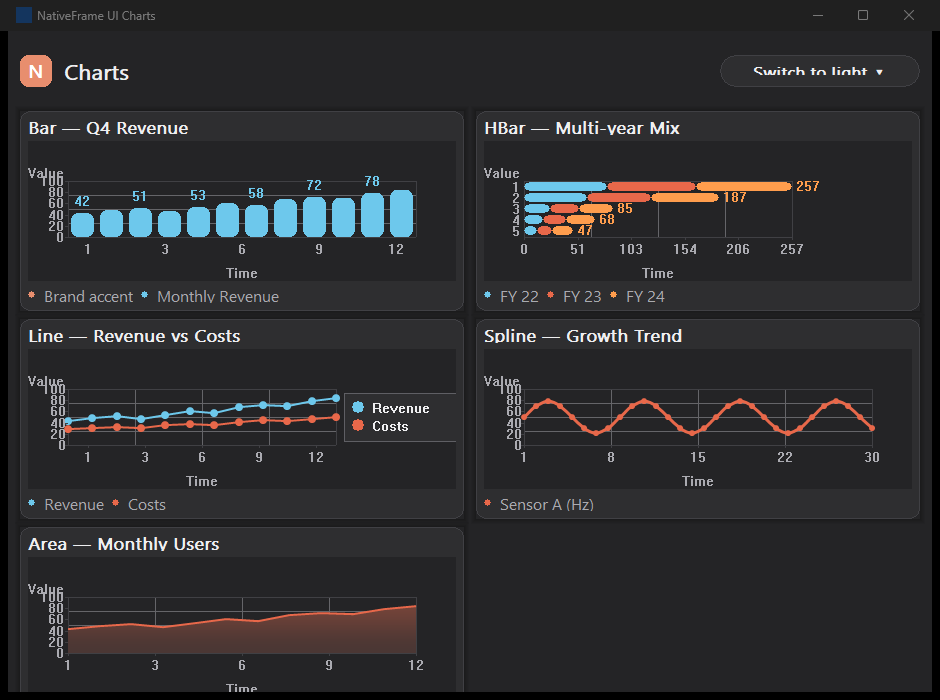
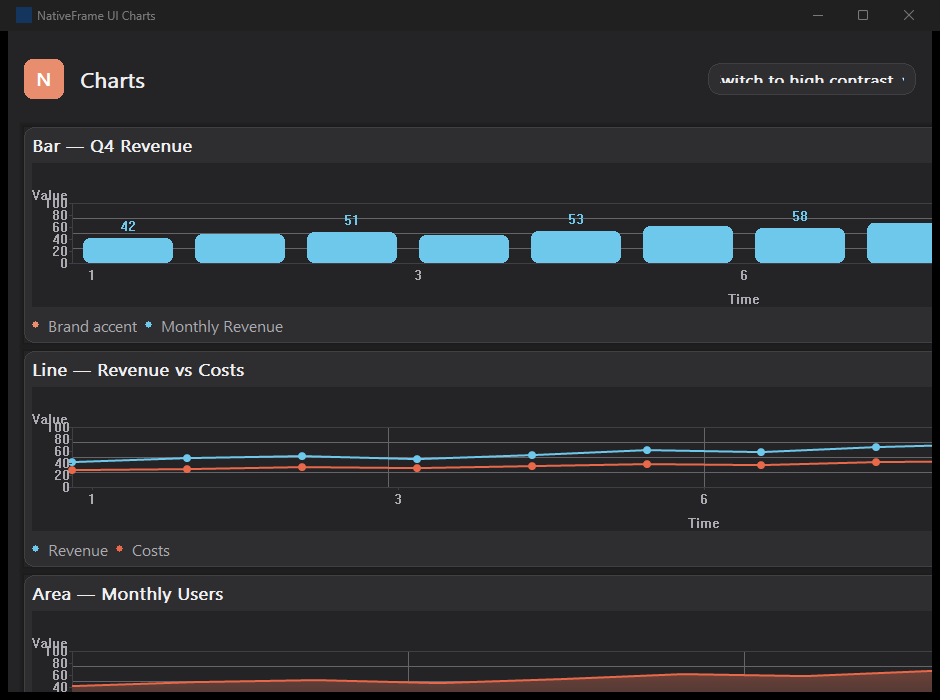
feat(cpB8): Charts polish — three-theme cycle + design-token layout
- Added high-contrast palette support to the Charts demo:
  - new hc_palette_ member in ChartsWindow
  - three-way apply_theme() switch (light / dark / high_contrast)
  - cyclic theme toggle: light → dark → high_contrast → light
  - toggle label updates to "Switch to dark / high contrast / light"
- Migrated all layout/paint magic numbers to nfui::design tokens
  (spacing_sm/md/lg/xs, control_height_sm/md/lg, radius_md/lg).

Validation: build clean, 7/7 ctest, 42/42 audit PNGs, gate avg 41257 bytes,
architecture + boundary gates green.

diff --git a/samples/NativeFrameUICharts/NativeFrameUICharts.cpp b/samples/NativeFrameUICharts/NativeFrameUICharts.cpp
@@ -6,6 +6,7 @@
 #include <nfui/Paint.hpp>
 #include <nfui/ResourceContext.hpp>
 #include <nfui/Theme.hpp>
+#include <nfui/design_tokens.hpp>
 
 #include "NativeFrameUIResource.h"
 
@@ -18,6 +19,8 @@
 #include <windowsx.h>
 
 namespace {
+
+namespace tok = nfui::design;
 
 // CP30: chart-series name strings. The ChartSeries::name field is borrowed
 // (std::wstring_view); the underlying storage MUST outlive the chart view
@@ -136,6 +139,7 @@ public:
           resources_(instance),
           light_palette_(nfui::theme_palette(nfui::ThemeMode::light)),
           dark_palette_(nfui::theme_palette(nfui::ThemeMode::dark)),
+          hc_palette_(nfui::theme_palette(nfui::ThemeMode::high_contrast)),
           palette_(&light_palette_) {
     }
 
@@ -299,9 +303,19 @@ private:
     // Rebuild series palettes from the live theme + push the palette pointer
     // through every chart view. Called on create + on theme toggle.
     void apply_theme() noexcept {
-        palette_ = (theme_mode_ == nfui::ThemeMode::dark)
-                       ? static_cast<const nfui::ThemePalette*>(&dark_palette_)
-                       : static_cast<const nfui::ThemePalette*>(&light_palette_);
+        // CP-B8: support all three themes. HC uses the framework's high-contrast
+        // palette so axis/tick labels and legend dots read with WCAG contrast.
+        switch (theme_mode_) {
+        case nfui::ThemeMode::dark:
+            palette_ = &dark_palette_;
+            break;
+        case nfui::ThemeMode::high_contrast:
+            palette_ = &hc_palette_;
+            break;
+        default:
+            palette_ = &light_palette_;
+            break;
+        }
         bar_.set_palette(palette_);
         hbar_.set_palette(palette_);
         line_.set_palette(palette_);
@@ -471,21 +485,21 @@ private:
         // grid (3 rows) instead of a single vertical stack — the previous
         // chart_h 220 px per card × 5 = 1100 px in a 700-tall window left
         // ~70% of the content below the fold.
-        const int outer = dpi.logical_to_pixels(12);
-        const int gap = dpi.logical_to_pixels(12);
-        const int header_h = dpi.logical_to_pixels(56);
+        const int outer = dpi.logical_to_pixels(tok::spacing_md);
+        const int gap = dpi.logical_to_pixels(tok::spacing_md);
+        const int header_h = dpi.logical_to_pixels(tok::control_height_lg + tok::spacing_lg);
 
         // Title row sits inside the header band so it shares the brand line
         // with the theme toggle. The toggle rect is reused by hover + click
         // dispatchers so the click test always sees the live coordinates.
         const int header_band_top = client.top + outer;
         const int header_band_h = header_h;
-        const int logo_size = dpi.logical_to_pixels(32);
+        const int logo_size = dpi.logical_to_pixels(tok::control_height_lg);
         brand_rect_ = make_rect(client.left + outer,
                                 header_band_top + (header_band_h - logo_size) / 2,
                                 logo_size, logo_size);
-        const int toggle_w = dpi.logical_to_pixels(200);
-        const int toggle_h = dpi.logical_to_pixels(32);
+        const int toggle_w = dpi.logical_to_pixels(tok::spacing_xl * 6 + tok::spacing_md);  // 200 logical px
+        const int toggle_h = dpi.logical_to_pixels(tok::control_height_md);
         theme_toggle_rect_ = make_rect(client.right - outer - toggle_w,
                                        header_band_top + (header_band_h - toggle_h) / 2,
                                        toggle_w, toggle_h);
@@ -498,10 +512,10 @@ private:
         // Per-card reserved vertical space: title strip + legend strip +
         // inner padding. The chart HWND sits between them inside the card
         // chrome (rounded rect + border + drop shadow painted by the parent).
-        const int card_padding = dpi.logical_to_pixels(8);
-        const int card_title_h = dpi.logical_to_pixels(16);
-        const int card_legend_h = dpi.logical_to_pixels(16);
-        const int card_gap = dpi.logical_to_pixels(6);
+        const int card_padding = dpi.logical_to_pixels(tok::spacing_sm);
+        const int card_title_h = dpi.logical_to_pixels(tok::control_height_sm - tok::spacing_xs);
+        const int card_legend_h = dpi.logical_to_pixels(tok::control_height_sm - tok::spacing_xs);
+        const int card_gap = dpi.logical_to_pixels(tok::spacing_xs + tok::spacing_xs);
 
         // CP37: 2-column grid (3 rows) instead of a single vertical stack.
         // 5 charts split across 2 columns: cards 0/2/4 in column 1 and
@@ -510,18 +524,18 @@ private:
         // inside the 700-tall compact viewport with breathing room, while
         // keeping enough vertical room for the bar / hbar geometry to
         // render with proper height.
-        const int grid_gap = dpi.logical_to_pixels(12);
+        const int grid_gap = dpi.logical_to_pixels(tok::spacing_md);
         const int card_w = std::max((area_right - area_left - grid_gap) / 2,
-                                    dpi.logical_to_pixels(360));
+                                    dpi.logical_to_pixels(tok::spacing_xl * 45));  // 360 logical px
         const int card_inner_w = std::max(card_w - card_padding * 2,
-                                          dpi.logical_to_pixels(340));
-        const int chart_h = dpi.logical_to_pixels(140);
+                                          dpi.logical_to_pixels(tok::spacing_xl * 42));  // 336 logical px
+        const int chart_h = dpi.logical_to_pixels(tok::control_height_lg * 3 + tok::spacing_lg);  // 140 logical px
         const int card_h = card_padding + card_title_h + card_gap
                             + chart_h + card_gap + card_legend_h + card_padding;
 
         const int card_count = 5;
         const int rows = (card_count + 1) / 2;  // 5 → 3 rows
-        const int row_gap = dpi.logical_to_pixels(8);
+        const int row_gap = dpi.logical_to_pixels(tok::spacing_sm);
         const int col_gap = grid_gap;
         const int stack_top = area_top;
 
@@ -619,7 +633,7 @@ private:
     void paint_brand_square(HDC target) noexcept {
         const nfui::ThemePalette& p = *palette_;
         const nfui::DpiScale dpi(GetDpiForWindow(hwnd()));
-        const int radius = dpi.logical_to_pixels(8);
+        const int radius = dpi.logical_to_pixels(tok::radius_md);
         nfui::fill_rounded_rect(target, brand_rect_, radius, p.accent, p.accent);
         // White "N" mark, semibold at font_pt::md (16pt). The accent_text
         // colour is reserved for text drawn ON accent (per palette docs),
@@ -637,8 +651,8 @@ private:
     void paint_page_title(HDC target) noexcept {
         const nfui::ThemePalette& p = *palette_;
         const nfui::DpiScale dpi(GetDpiForWindow(hwnd()));
-        const int gap = dpi.logical_to_pixels(12);
-        const int title_h = dpi.logical_to_pixels(28);
+        const int gap = dpi.logical_to_pixels(tok::spacing_md);
+        const int title_h = dpi.logical_to_pixels(tok::font_hero + tok::spacing_sm);
         RECT title = brand_rect_;
         title.left = brand_rect_.right + gap;
         title.top = brand_rect_.top + (rect_height(brand_rect_) - title_h) / 2;
@@ -655,7 +669,7 @@ private:
     void paint_theme_toggle(HDC target) noexcept {
         const nfui::ThemePalette& p = *palette_;
         const nfui::DpiScale dpi(GetDpiForWindow(hwnd()));
-        const int radius = dpi.logical_to_pixels(16);
+        const int radius = dpi.logical_to_pixels(tok::radius_lg);
 
         // Hover face: lift the surface toward the accent so the click
         // affordance reads. When the user is already on dark mode the
@@ -667,12 +681,15 @@ private:
             : p.surface;
         nfui::fill_rounded_rect(target, theme_toggle_rect_, radius, face, p.border);
 
-        // Label shows the ACTION ("Switch to dark") plus a chevron. The
-        // brief says "shows current mode + arrow" — we go with action+arrow
-        // because it reads as the same affordance ShowcaseView uses.
-        const std::wstring_view label = (theme_mode_ == nfui::ThemeMode::dark)
-            ? L"Switch to light ▾"
-            : L"Switch to dark ▾";
+        // CP-B8: label shows the ACTION for the NEXT mode in a 3-way cycle
+        // (light → dark → high_contrast → light). The chevron hints at a
+        // dropdown-like affordance even though this is a cyclic toggle.
+        const std::wstring_view label =
+            (theme_mode_ == nfui::ThemeMode::dark)
+                ? L"Switch to high contrast ▾"
+            : (theme_mode_ == nfui::ThemeMode::high_contrast)
+                ? L"Switch to light ▾"
+                : L"Switch to dark ▾";
         RECT text_rc = inset_rect(theme_toggle_rect_, dpi.logical_to_pixels(12));
         nfui::draw_text(target,
                         text_rc,
@@ -696,8 +713,8 @@ private:
     void paint_card_legend(HDC target, const CardLayout& layout) noexcept {
         const nfui::ThemePalette& p = *palette_;
         const nfui::DpiScale dpi(GetDpiForWindow(hwnd()));
-        const int dot_size = dpi.logical_to_pixels(8);
-        const int gap = dpi.logical_to_pixels(8);
+        const int dot_size = dpi.logical_to_pixels(tok::spacing_sm);
+        const int gap = dpi.logical_to_pixels(tok::spacing_sm);
 
         const HFONT font = fonts_.regular(dpi.dpi(), nfui::font_pt::sm);
         HGDIOBJ prev_font = SelectObject(target, font);
@@ -809,9 +826,14 @@ private:
         if (PtInRect(&theme_toggle_rect_, pt) == FALSE) {
             return false;
         }
-        theme_mode_ = (theme_mode_ == nfui::ThemeMode::dark)
-                          ? nfui::ThemeMode::light
-                          : nfui::ThemeMode::dark;
+        // CP-B8: cycle through light → dark → high_contrast → light.
+        if (theme_mode_ == nfui::ThemeMode::light) {
+            theme_mode_ = nfui::ThemeMode::dark;
+        } else if (theme_mode_ == nfui::ThemeMode::dark) {
+            theme_mode_ = nfui::ThemeMode::high_contrast;
+        } else {
+            theme_mode_ = nfui::ThemeMode::light;
+        }
         apply_theme();
         return true;
     }
@@ -820,6 +842,7 @@ private:
     nfui::ResourceContext resources_;
     nfui::ThemePalette light_palette_;
     nfui::ThemePalette dark_palette_;
+    nfui::ThemePalette hc_palette_;
     const nfui::ThemePalette* palette_{};
     nfui::FontCache fonts_;
     nfui::BarChartView bar_;
